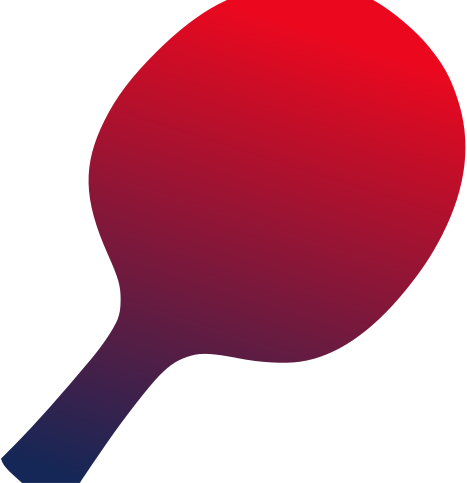
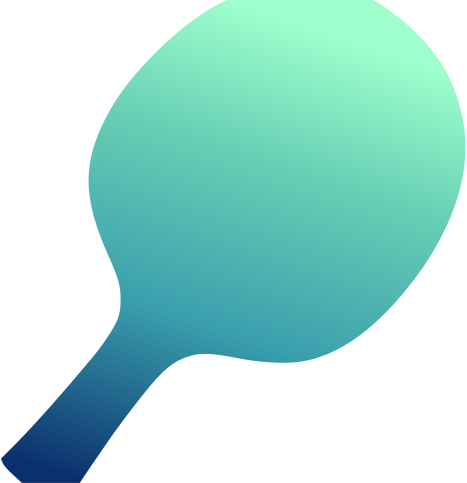
Add beginnings of new header

diff --git a/app/assets/stylesheets/_site-header.scss b/app/assets/stylesheets/_site-header.scss
@@ -1,0 +1,36 @@
+$site-header-height: 44px;
+
+.site-header-wrap {
+  @include linear-gradient(to right, $dark-blue, $mint);
+}
+
+.site-header {
+  @include display(flex);
+  height: $site-header-height;
+  padding: 0 1rem;
+  margin-bottom: 3px;
+  background-color: $off-white;
+}
+
+.site-header-paddle {
+  @include flex-grow(0);
+  width: auto;
+  height: $site-header-height;
+  margin-right: 1rem;
+}
+
+.site-header-title {
+  @include flex-grow(0);
+  font-size: 1.4rem;
+  font-weight: bold;
+  line-height: $site-header-height;
+
+  span {
+    font-size: 0.9rem;
+  }
+
+  a:hover {
+    text-decoration: none;
+    border-bottom: 2px solid $dark-blue;
+  }
+}

diff --git a/app/assets/stylesheets/setup/_palette.scss b/app/assets/stylesheets/setup/_palette.scss
@@ -8,6 +8,8 @@ $color-porkchop-blue: #24306F;
 $color-porkchop-red: #CD3117;
 
 $red: $color-porkchop-red;
+$mint: #93f5c7;
 $blue: $color-porkchop-blue;
+$dark-blue: #152756;
 $green: #286F31;
 $yellow: #F7CE00;

diff --git a/app/assets/stylesheets/application.css.scss b/app/assets/stylesheets/application.css.scss
@@ -14,6 +14,7 @@
 @import "porkbox";
 
 @import "layout";
+@import "site-header";
 @import "page-header";
 @import "footer";
 @import "header-controls";
